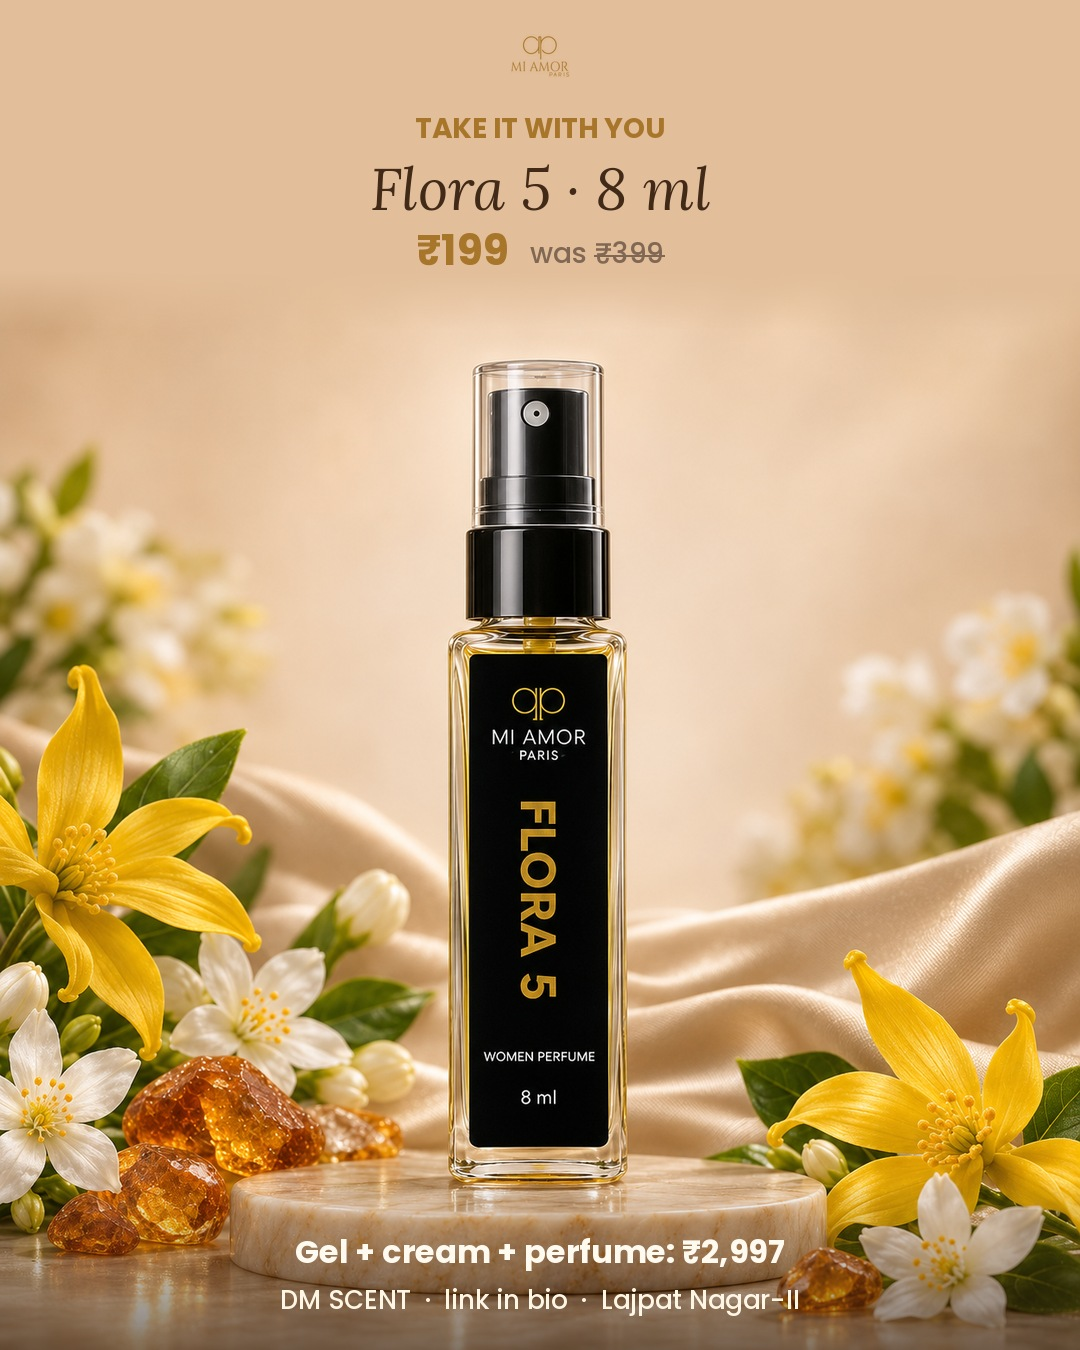
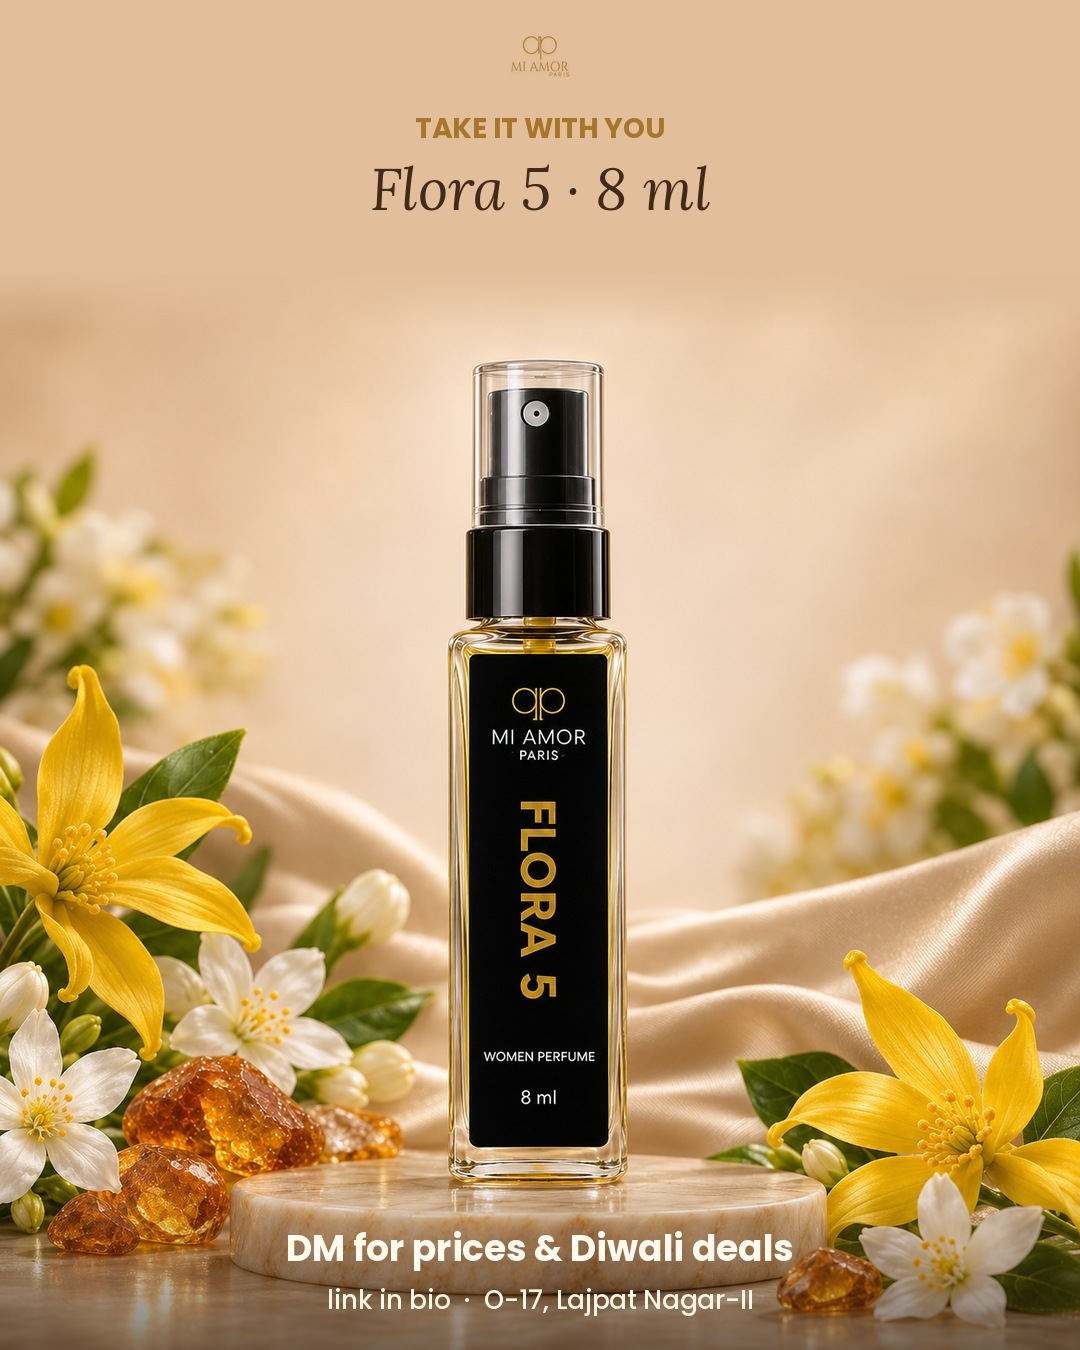
Flora 5 carousel without prices; last slide 'DM for prices & Diwali deals'; playbook: no prices in feed posts
Claude-Session: https://claude.ai/code/session_01QfcZgk1TCxQfFsu6yjKqLd

Changed region(s): [[0.2444, 0.9022, 0.7333, 0.9956], [0.4889, 0.1556, 0.6111, 0.2178], [0.3667, 0.1556, 0.4889, 0.2178]]

diff --git a/posts/2026-11-04-flora5-ritual/build.py b/posts/2026-11-04-flora5-ritual/build.py
@@ -2,7 +2,7 @@
 Look: Tannay's real Flora 5 8 ml photoshoot set (ivory silk, ylang-ylang, jasmine, amber, marble podium),
 which matches the perfume's listed notes. The mini is digitally removed from the set (work/scene_clean.png)
 and each real product cut-out (white studio shots) is placed on the podium with contact shadow and a soft
-podium reflection. Slide 5 is the untouched 8 ml photo. Notes from the Shopify listing. Prices verified live 3 Nov."""
+podium reflection. Slide 5 is the untouched 8 ml photo. Notes from the Shopify listing. No prices on slides (Tannay, 3 Nov): last slide says "DM for prices & Diwali deals"."""
 import numpy as np
 from PIL import Image, ImageDraw, ImageFont, ImageFilter, ImageOps
 W, H = 1080, 1350; K = 1350 / 1254; OX = -135
@@ -69,16 +69,16 @@ c(d, 306, "FLORA 5  ·  SHOWER  ·  CREAM  ·  SCENT", pop(26, "Medium"), GOLD);
 # 2 step 1 shower gel
 im = scene(mirror=True); place(im, "work/gel.png", 540, 900); d = ImageDraw.Draw(im)
 c(d, 70, "STEP 1  ·  SHOWER", pop(28, "Bold"), GOLD); c(d, 130, "Flora 5 Shower Gel", lora(56, True), DARK)
-c(d, 182, "500 ml  ·  shea butter & glycerin  ·  soft floral lather", pop(24), MUTE); price(d, 232, "₹749", "₹1,499"); out.append(im)
+c(d, 182, "500 ml  ·  shea butter & glycerin  ·  soft floral lather", pop(24), MUTE); out.append(im)
 # 3 step 2 cream
 im = scene(); place(im, "work/cream.png", 540, 880); d = ImageDraw.Draw(im)
 c(d, 70, "STEP 2  ·  MOISTURISE", pop(28, "Bold"), GOLD); c(d, 130, "Flora 5 Moisturizing Cream", lora(54, True), DARK)
-c(d, 182, "150 ml  ·  face, body & hands  ·  non-greasy", pop(24), MUTE); price(d, 232, "₹749", "₹1,499"); out.append(im)
+c(d, 182, "150 ml  ·  face, body & hands  ·  non-greasy", pop(24), MUTE); out.append(im)
 # 4 step 3 perfume
 im = scene(mirror=True); place(im, "work/perfume.png", 540, 640); d = ImageDraw.Draw(im)
 c(d, 70, "STEP 3  ·  SCENT", pop(28, "Bold"), GOLD); c(d, 130, "Flora 5 Perfume", lora(58, True), DARK)
 c(d, 186, "Aldehyde & ylang-ylang  ·  jasmine  ·  amber & musk", pop(25), MUTE)
-c(d, 228, "100 ml  ·  powdery floral", pop(24), MUTE); price(d, 282, "₹1,499", "₹2,999"); out.append(im)
+c(d, 228, "100 ml  ·  powdery floral", pop(24), MUTE); out.append(im)
 # 5 the real 8 ml photo (untouched) under a backdrop-coloured band + CTA
 ph = Image.open("source/mini_8ml_lifestyle.png").convert("RGB").resize((1080, 1080), Image.LANCZOS)
 top = np.array(ph)[:6].mean((0, 1)).astype(int)
@@ -91,9 +91,9 @@ v = Image.new("RGBA", (W, 170)); vd = ImageDraw.Draw(v)
 for y in range(170): vd.line((0, y, W, y), fill=(40, 24, 12, int(150 * y / 170)))
 im.alpha_composite(v, (0, H - 170)); d = ImageDraw.Draw(im)
 logo(im, 60, 34)
-c(d, 128, "TAKE IT WITH YOU", pop(28, "Bold"), GOLD); c(d, 188, "Flora 5 · 8 ml", lora(58, True), DARK); price(d, 250, "₹199", "₹399")
-c(d, 1252, "Gel + cream + perfume: ₹2,997", pop(32, "Bold"), (255, 250, 240))
-c(d, 1300, "DM SCENT  ·  link in bio  ·  Lajpat Nagar-II", pop(26), (255, 246, 230))
+c(d, 128, "TAKE IT WITH YOU", pop(28, "Bold"), GOLD); c(d, 188, "Flora 5 · 8 ml", lora(58, True), DARK)
+c(d, 1248, "DM for prices & Diwali deals", pop(36, "Bold"), (255, 250, 240))
+c(d, 1300, "link in bio  ·  O-17, Lajpat Nagar-II", pop(26), (255, 246, 230))
 out.append(im)
 for i, s in enumerate(out, 1): s.convert("RGB").save(f"slide_{i:02d}.jpg", quality=93)
 sheet = Image.new("RGB", (5 * 432 + 60, 540 + 20), (30, 22, 16))

diff --git a/ops/PLAYBOOK.md b/ops/PLAYBOOK.md
@@ -120,6 +120,7 @@ Tannay: "1 post everyday for upcoming festivals … something new everyday, we h
 - One feed post a day (static carousel 1080x1350, ~19:30 IST) themed on the next festival: Diwali (8 Nov), Bhai Dooj (11 Nov), wedding season, Christmas, New Year, Valentine's...
 - **Never repeat a product set.** Before building, check `ops/feed_used.md` and pick products/combinations not used yet. Rotate categories: perfumes, body wash, moisturisers, handwash, 1-wick & 3-wick candles (zodiac / chakra / oud / numerology), diffuser oils + stands, incense (30 pcs: Bhakti, Gokul, Guggal, Himalayan Oudh, Moksh, Rajnigandha, Sanatan, Vanya, chakra lines), 8 ml testers, combos.
 - Real photos from Drive "All Products Images & Videos" (id 1wp0tAaKCqvVSeLH-emfuZxQwgDADXUYL). Category folders: Perfume 1_8ir-xnEDUvb6Rsk_olpzUx4SFt78NXi (several perfume subfolders are EMPTY), BODY WASH 18JQ7kFDX_PS3N5QzgQN6MfydKcw_mi9E, Moisturizer 1lOlCChtw5yD6fky7RCj6HcTQ3JTc4KVU, Handwash 1JmKgAYAJZMpiKuy20DjOUVUjoXZfmz73, 1 Wick Candles 1ACnwsiA2rRQJ51sblPny2qGiTrjWGZtD (Zodiac 1GsL78DVudpIJVGYA_VpNfXInWg7LrZYP, Chakra 1xDgfX0BTCtK6seKaOGixhm7GEfFD9fCp, Oud 120kFVcepxNBfEC5HFijr2vAbQDxJJgfA, Numerology 1NM3ocaiNN9rTabzUpK3xt4fykZzblypt), 3 Wick Candles 19FyJdCsFmPQ1dyZRqwBWx7JSimfntg7n, Diffuser Oils 1iSoOWGIYIWsODI9SJl9md1_Z5b3Miy8L, Diffuser Stand 10NJZh7yWUGRp-kzvNSn5bvMDhS4zpmJZ, 30 Pcs Incense 1k0s9T_tVXqovQ5MVHsvMQIRX2wIw9ccT, Incense Sticks 1mDqpVjHsL5RGnQeJqPIO8N9ug8PMWych, 8 Ml Testers 1UmKgMelKVhTZ00p9zlC3DIm4tdyZOtP4. Each product folder holds 1.jpg… (1000x1000 lifestyle/studio). Download with the Drive connector (download_file_content → base64).
+- **No prices in feed posts (Tannay, 3 Nov, "from now on"):** no ₹ amounts on slides or in captions. The LAST slide always says "DM for prices & Diwali deals" (or the current occasion's deals). Price checks still matter for DM/comment replies.
 - **Backgrounds (Tannay, 3 Nov):** every product picture gets a nice background that looks REAL, not flat colour panels or obvious graphics. Best method: cut the real product out of its studio shot and stand it in a real photoshoot set (e.g. his Flora 5 8 ml set, see posts/2026-11-04-flora5-ritual/build.py) with contact shadow and matching warm light. His styled photoshoot images are real photos: don't mark them AI.
 - Show whole products only (no cropping of the product), live Shopify prices, no puja link for perfumes (candles/incense may appear in festive home settings), max 5 hashtags.
 

diff --git a/posts/2026-11-04-flora5-ritual/source/README.md b/posts/2026-11-04-flora5-ritual/source/README.md
@@ -9,5 +9,5 @@ Live prices 3 Nov: perfume 100 ml ₹1,499 (was ₹2,999); shower gel ₹749 (wa
 ## Status (3 Nov, built in chat with Tannay)
 - Tannay: the 8 ml image is from a real photoshoot, so do NOT mark it AI (isAiGenerated false).
 - Tannay: "make every pic have a nice background but make sure it looks real".
-- Slides built: ../slide_01.jpg … slide_05.jpg (build.py, work/make_scene.py). Every product stands on the real set from his 8 ml shoot.
+- Slides built (no prices, per Tannay 3 Nov; last slide "DM for prices & Diwali deals"): ../slide_01.jpg … slide_05.jpg (build.py, work/make_scene.py).
 - Awaiting Tannay's OK on the look before booking for Wed 4 Nov 18:00 IST. The daily task should book THESE slides (re-check prices), not build a new set.
